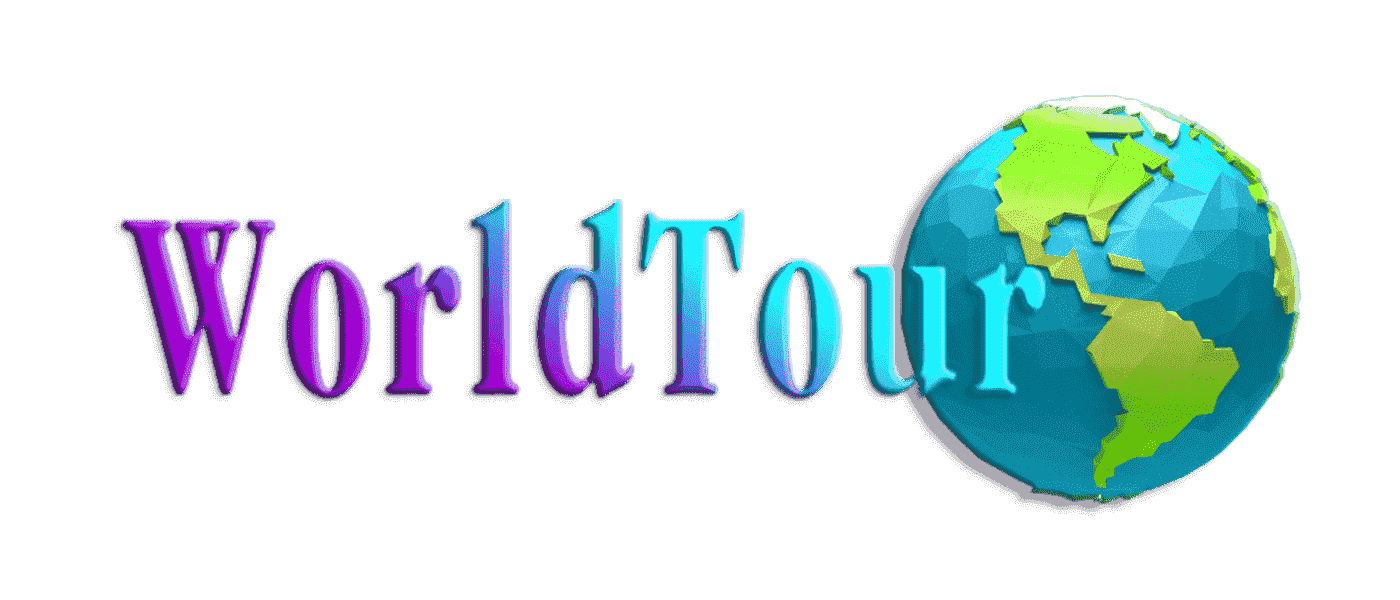
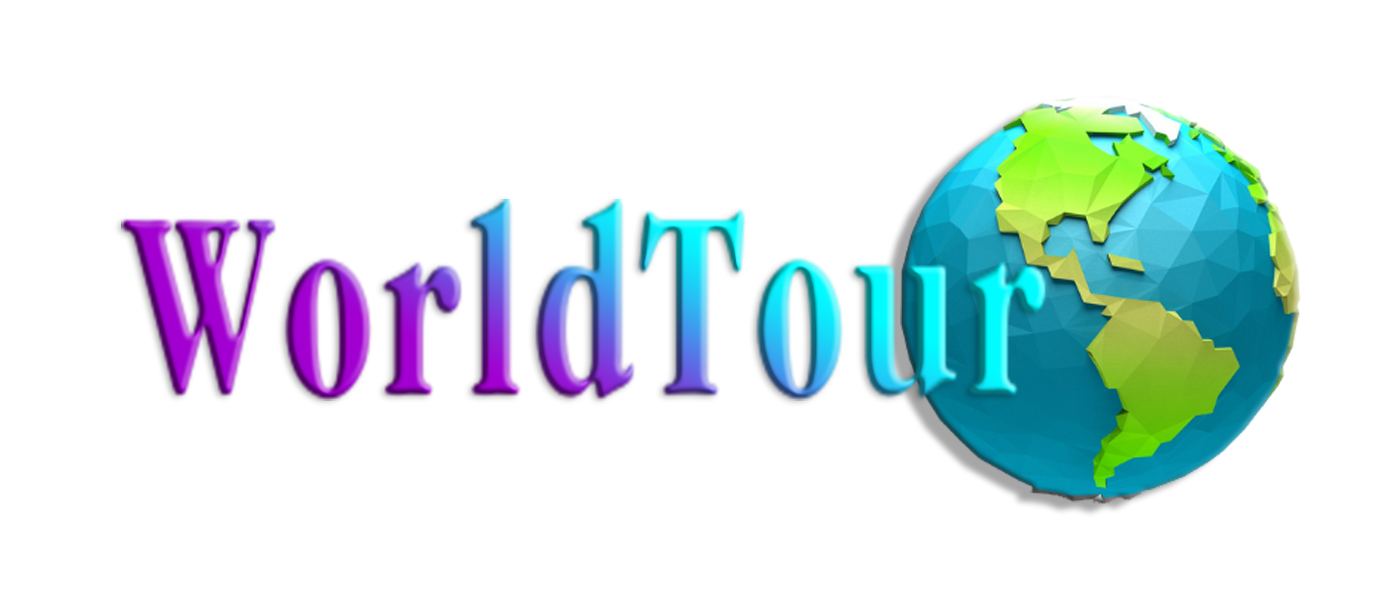
заменила на web

diff --git a/css/style.css b/css/style.css
@@ -52,7 +52,7 @@ p {
     margin: 0 auto;
     max-width: 1400px;
     height: 100%;
-    background: url("../img/WorldThour.png") no-repeat center / 1400px 600px;
+    background: url("../img/WorldThour-364-web.webp") no-repeat center / 1400px 600px;
     /* box-shadow: 0 0 20px 10px rgb(253 125 12) inset, 0 0 20px 10px rgb(253 128 17) inset, 0 0 20px 10px rgb(253 129 19) inset;  */
 }
 
